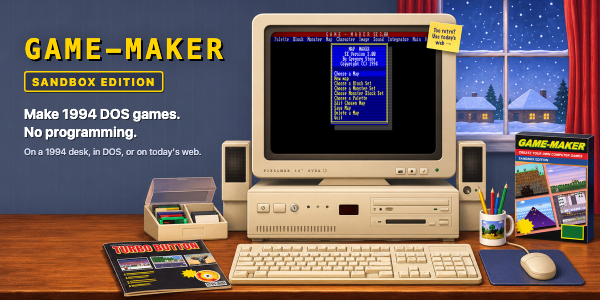
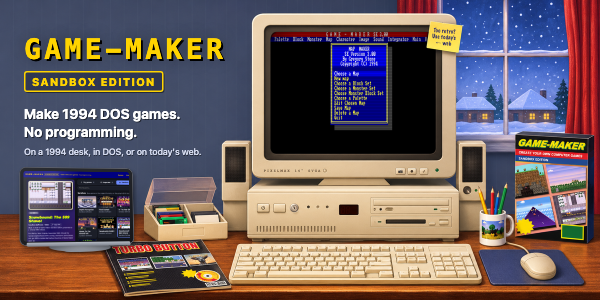
Social preview: today's web on a tablet at the left of the desk; the sticky note now points to it

Changed region(s): [[0.03, 0.54, 0.24, 0.87], [0.72, 0.12, 0.75, 0.15]]

diff --git a/README.md b/README.md
@@ -1,6 +1,6 @@
 # Game-Maker: Sandbox Edition
 
-![Game-Maker: Sandbox Edition. Make 1994 DOS games. No programming. A painted 1994 desk at night by a snowy window: the beige PC shows DOS Game-Maker's Map Maker menu, with a sticky note reading "Too retro? Use today's web", and around it sit a disk box, TURBO BUTTON magazine, the keyboard, a mug of pencils and the Game-Maker box](docs/social-preview-600x300.png)
+![Game-Maker: Sandbox Edition. Make 1994 DOS games. No programming. A painted 1994 desk at night by a snowy window: the beige PC shows DOS Game-Maker's Map Maker menu, with a sticky note reading "Too retro? Use today's web" pointing to a tablet showing the site's home page, and around it sit a disk box, TURBO BUTTON magazine, the keyboard, a mug of pencils and the Game-Maker box](docs/social-preview-600x300.png)
 
 Make and play DOS-style games in your web browser, with no programming. A modified fork of
 **RSD Game-Maker 3.0**, the 1991–1995 game construction kit by Recreational Software

diff --git a/NOTICE.md b/NOTICE.md
@@ -928,8 +928,9 @@ they are not copied from any existing alphabet, cipher or game's script.
 The desk scene in `docs/social-preview-*.png` (the README's top image and GitHub's link
 preview) was painted by **ChatGPT** (OpenAI) from Lewis Moten's prompt and a pack of the site's
 own renders: the desk's props, the Game-Maker box, TURBO BUTTON's cover and the room. Claude
-Opus 5.5 laid the real DOS Game-Maker Map Maker screen into its monitor and lettered the title
-and the sticky note, under Lewis Moten's direction.
+Opus 5.5 laid the real DOS Game-Maker Map Maker screen into its monitor, drew the tablet on its
+stand (showing a screenshot of the site's home page) in CSS, and lettered the title and the
+sticky note, under Lewis Moten's direction.
 
 ### Ready-made palette references
 
